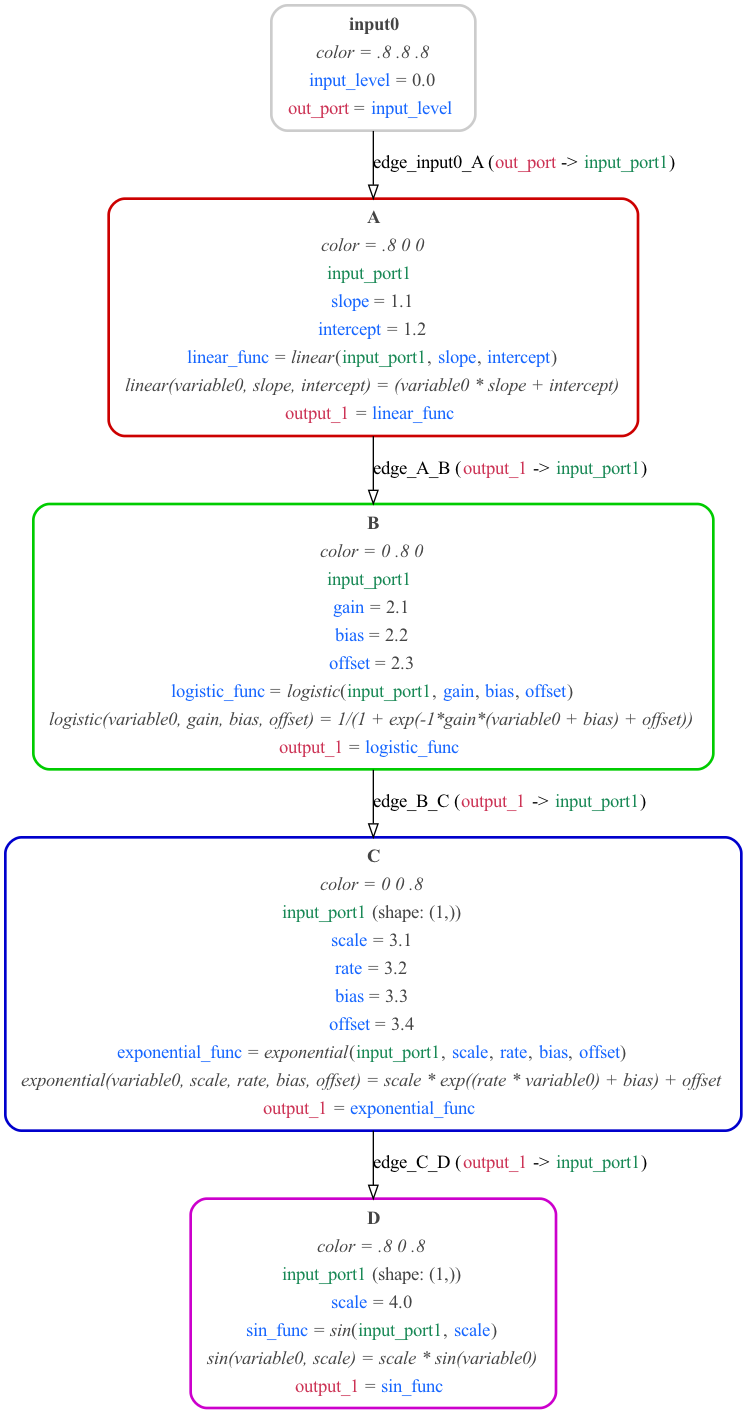
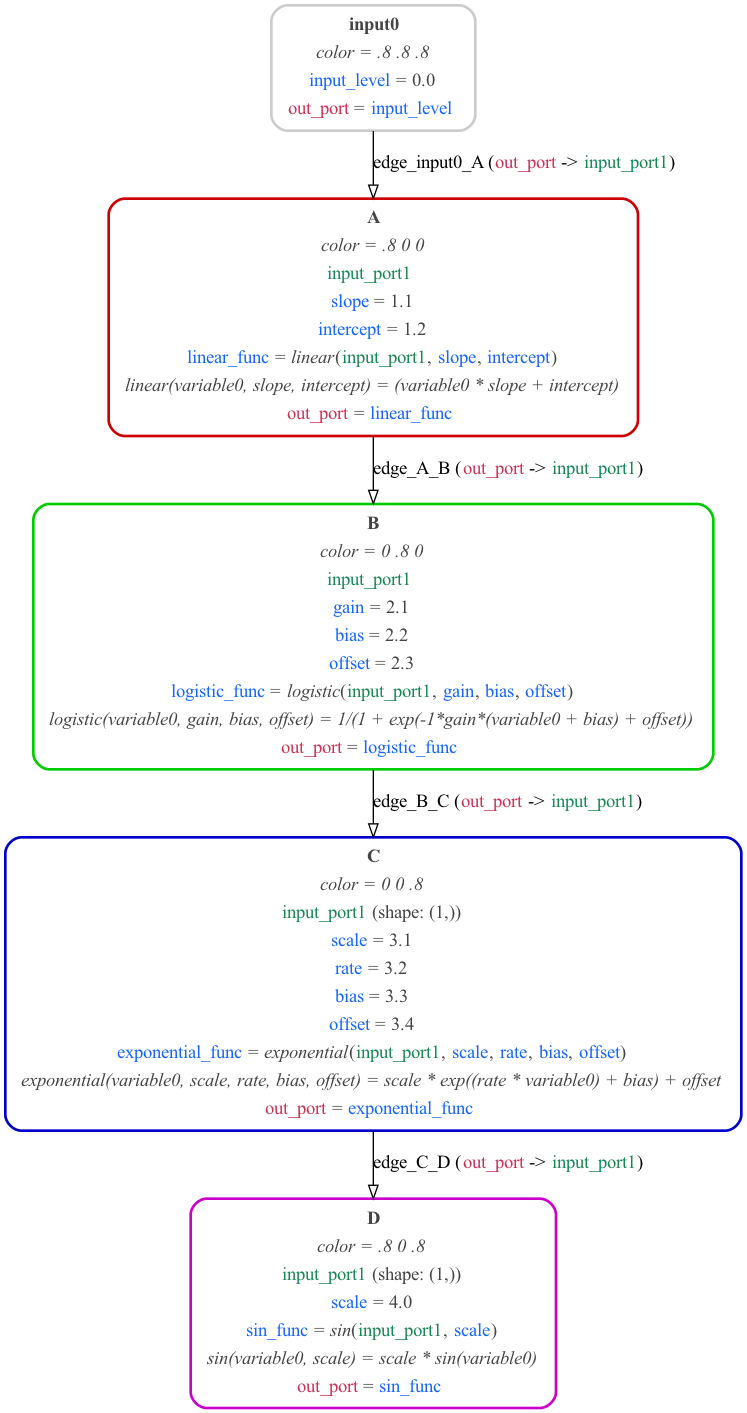
Fix export of iaf to nml

diff --git a/src/modeci_mdf/interfaces/neuroml/exporter.py b/src/modeci_mdf/interfaces/neuroml/exporter.py
@@ -37,7 +37,12 @@ def mdf_to_neuroml(
 
         # Create the ComponentType which defines behaviour of the general class
         ct = lems.ComponentType(node_comp_type, extends="baseCellMembPotDL")
-        ct.add(lems.Attachments("only_input_port", "basePointCurrentDL"))
+
+        for ip in node.input_ports:
+            ct.add(lems.Attachments("ip_%s" % ip.id, "basePointCurrentDL"))
+        if len(node.input_ports) == 0:
+            ct.add(lems.Attachments("unused_attachments", "basePointCurrentDL"))
+
         ct.dynamics.add(
             lems.DerivedVariable(name="V", dimension="none", value="0", exposure="V")
         )
@@ -58,8 +63,8 @@ def mdf_to_neuroml(
         )
         net.populations.append(pop)
 
-        if len(node.input_ports) > 1:
-            raise Exception("Currently only max 1 input port supported in NeuroML...")
+        # if len(node.input_ports) > 2:
+        #    raise Exception("Currently only max 1 input port supported in NeuroML...")
 
         for ip in node.input_ports:
             ct.add(lems.Exposure(ip.id, "none"))
@@ -67,7 +72,7 @@ def mdf_to_neuroml(
                 lems.DerivedVariable(
                     name=ip.id,
                     dimension="none",
-                    select="only_input_port[*]/I",
+                    select="ip_%s[*]/I" % ip.id,
                     reduce="add",
                     exposure=ip.id,
                 )
@@ -164,8 +169,8 @@ def mdf_to_neuroml(
                     oc.actions.append(sa)
                     ct.dynamics.add(oc)
 
-        if len(node.output_ports) > 1:
-            raise Exception("Currently only max 1 output port supported in NeuroML...")
+        # if len(node.output_ports) > 1:
+        #    raise Exception("Currently only max 1 output port supported in NeuroML...")
 
         for op in node.output_ports:
             ct.add(lems.Exposure(op.id, "none"))
@@ -174,14 +179,14 @@ def mdf_to_neuroml(
                     name=op.id, dimension="none", value=op.value, exposure=op.id
                 )
             )
-            only_output_port = "only_output_port"
-            ct.add(lems.Exposure(only_output_port, "none"))
+            output_port = "op_%s" % op.id
+            ct.add(lems.Exposure(output_port, "none"))
             ct.dynamics.add(
                 lems.DerivedVariable(
-                    name=only_output_port,
+                    name=output_port,
                     dimension="none",
                     value=op.id,
-                    exposure=only_output_port,
+                    exposure=output_port,
                 )
             )
 

diff --git a/examples/MDF/abcd.py b/examples/MDF/abcd.py
@@ -39,7 +39,7 @@ def main():
         args={"variable0": ip1.id, "slope": "slope", "intercept": "intercept"},
     )
     a.parameters.append(f1)
-    a.output_ports.append(OutputPort(id="output_1", value="linear_func"))
+    a.output_ports.append(OutputPort(id="out_port", value="linear_func"))
 
     e1 = simple_connect(input_node, a, mod_graph)
 
@@ -58,7 +58,7 @@ def main():
         args={"variable0": ip1.id, "gain": "gain", "bias": "bias", "offset": "offset"},
     )
     b.parameters.append(f1)
-    b.output_ports.append(OutputPort(id="output_1", value="logistic_func"))
+    b.output_ports.append(OutputPort(id="out_port", value="logistic_func"))
 
     simple_connect(a, b, mod_graph)
 
@@ -84,7 +84,7 @@ def main():
         },
     )
     c.parameters.append(f1)
-    c.output_ports.append(OutputPort(id="output_1", value="exponential_func"))
+    c.output_ports.append(OutputPort(id="out_port", value="exponential_func"))
 
     simple_connect(b, c, mod_graph)
 
@@ -99,7 +99,7 @@ def main():
         id="sin_func", function="sin", args={"variable0": ip1.id, "scale": "scale"}
     )
     d.parameters.append(f1)
-    d.output_ports.append(OutputPort(id="output_1", value="sin_func"))
+    d.output_ports.append(OutputPort(id="out_port", value="sin_func"))
 
     simple_connect(c, d, mod_graph)
 

diff --git a/tests/interfaces/pytorch/test_export.py b/tests/interfaces/pytorch/test_export.py
@@ -44,10 +44,10 @@ def test_ABCD():
 
     # Get the result of MDF execution
     eg = modeci_mdf.execution_engine.main(str(file_path))
-    assert eg.enodes["A"].evaluable_outputs["output_1"].curr_value == k[1]
-    assert round(eg.enodes["B"].evaluable_outputs["output_1"].curr_value, 3) == k[2]
-    assert round(eg.enodes["C"].evaluable_outputs["output_1"].curr_value, 3) == k[3]
-    assert round(eg.enodes["D"].evaluable_outputs["output_1"].curr_value, 3) == k[4]
+    assert eg.enodes["A"].evaluable_outputs["out_port"].curr_value == k[1]
+    assert round(eg.enodes["B"].evaluable_outputs["out_port"].curr_value, 3) == k[2]
+    assert round(eg.enodes["C"].evaluable_outputs["out_port"].curr_value, 3) == k[3]
+    assert round(eg.enodes["D"].evaluable_outputs["out_port"].curr_value, 3) == k[4]
 
 
 def test_Arrays():

diff --git a/tests/test_scheduler.py b/tests/test_scheduler.py
@@ -35,7 +35,7 @@ def test_execution_engine_main(tmpdir):
             eg = modeci_mdf.execution_engine.main(
                 "examples/MDF/ABCD.%s" % mdf_format, array_format=array_format
             )
-            output = eg.enodes["D"].evaluable_outputs["output_1"].curr_value
+            output = eg.enodes["D"].evaluable_outputs["out_port"].curr_value
             assert -1.7737500239216304 - output < 1e-9
 
             eg = modeci_mdf.execution_engine.main(

diff --git a/examples/MDF/translation/run_translated_ABCD.py b/examples/MDF/translation/run_translated_ABCD.py
@@ -38,12 +38,12 @@ def main():
 
         print(
             "New file output value>>>",
-            eg.enodes["D"].evaluable_outputs["output_1"].curr_value,
+            eg.enodes["D"].evaluable_outputs["out_port"].curr_value,
         )
 
         print(
             "Old file output value>>>",
-            eg_old.enodes["D"].evaluable_outputs["output_1"].curr_value,
+            eg_old.enodes["D"].evaluable_outputs["out_port"].curr_value,
         )
 
 
